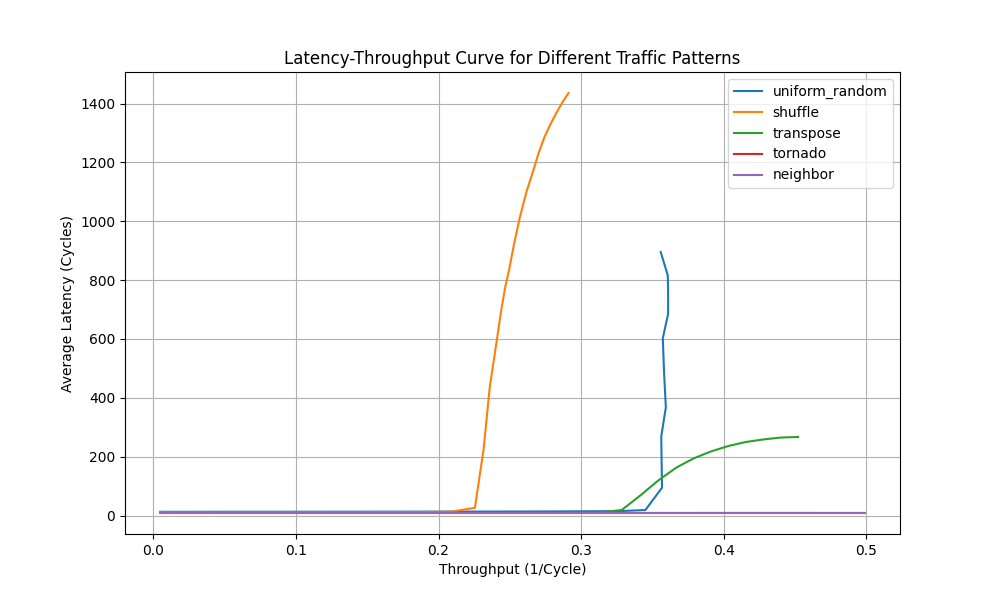
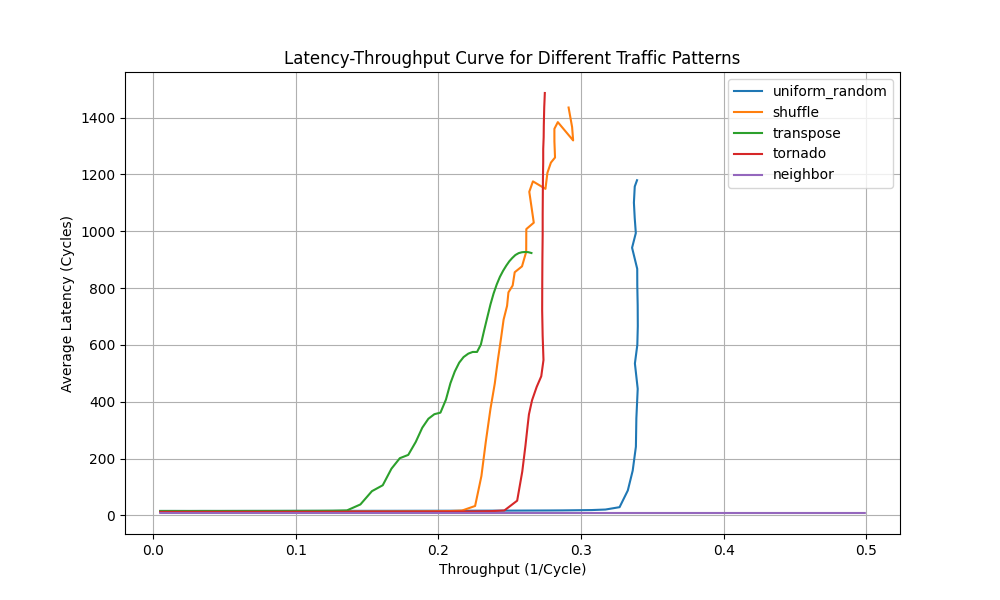
util: Performance Test

diff --git a/test.py b/test.py
@@ -5,7 +5,7 @@ import matplotlib.pyplot as plt
 import shutil
 
 # 定义仿真参数
-injection_rates = np.linspace(0.01, 1.0, 30)
+injection_rates = np.linspace(0.01, 1.0, 50)
 traffic_patterns = [
     "uniform_random",
     "shuffle",
@@ -32,7 +32,7 @@ for pattern in traffic_patterns:
         # 运行GEM5仿真并忽略输出
         cmd = (
             f"./build/NULL/gem5.opt configs/example/garnet_synth_traffic.py "
-            f"--network=garnet --num-cpus=32 --num-dirs=32 "
+            f"--network=garnet --num-cpus=64 --num-dirs=64 "
             f"--topology=Mesh_XY --mesh-rows=8 "
             f"--inj-vnet=0 --synthetic={pattern} "
             f"--sim-cycles=10000 --injectionrate={rate}"
